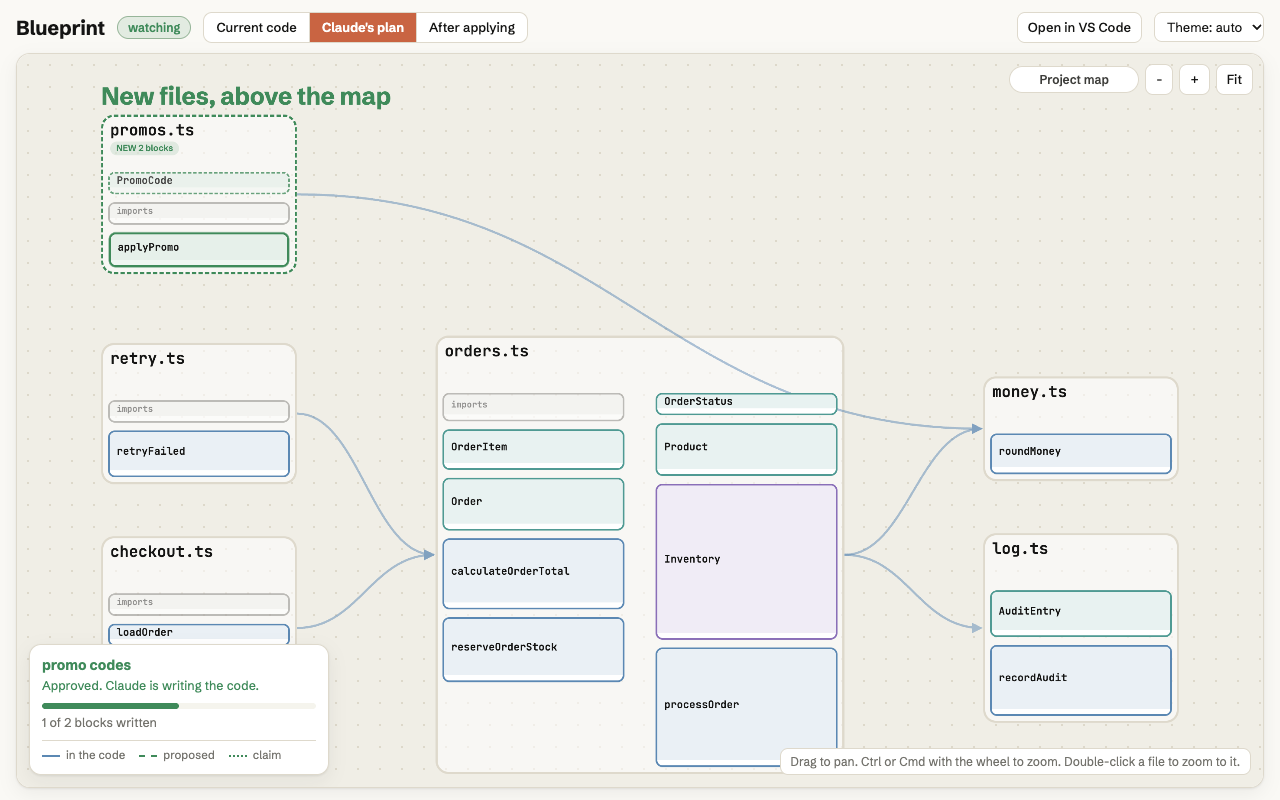
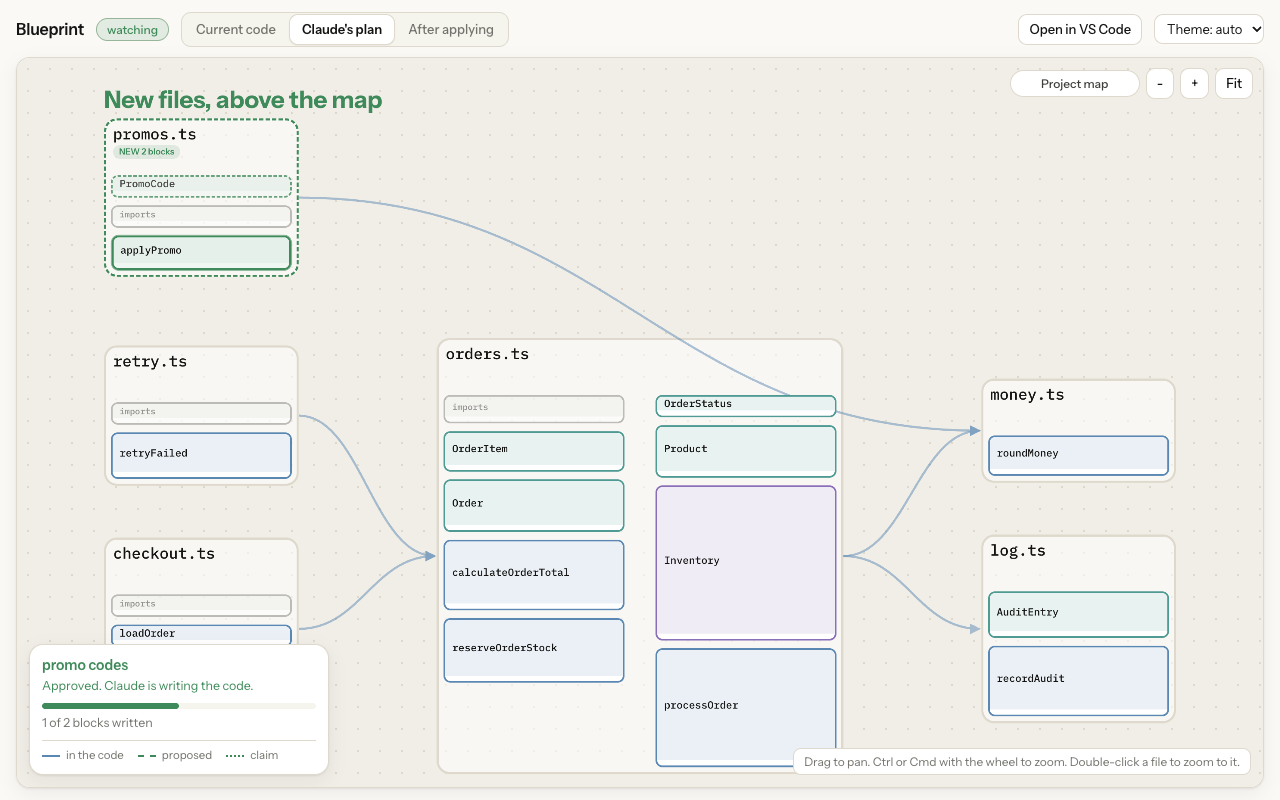
feat(ui): match claude's fonts and styling
instrument sans and ibm plex mono as the closest open faces, with
anthropic sans and mono first in the stack so the app's own win where
they exist. quiet 500 weights, neutral selected states, softer radii.
refreshed the readme screenshot.

diff --git a/packages/ui/src/style.css b/packages/ui/src/style.css
@@ -1,6 +1,6 @@
-@font-face { font-family: 'Schibsted Grotesk'; src: url('/fonts/schibsted-grotesk.woff2') format('woff2'); font-weight: 400 900; font-display: swap; }
-@font-face { font-family: 'JetBrains Mono'; src: url('/fonts/jetbrains-mono-400.woff2') format('woff2'); font-weight: 400; font-display: swap; }
-@font-face { font-family: 'JetBrains Mono'; src: url('/fonts/jetbrains-mono-600.woff2') format('woff2'); font-weight: 600 700; font-display: swap; }
+@font-face { font-family: 'Instrument Sans'; src: url('/fonts/instrument-sans.woff2') format('woff2'); font-weight: 400 700; font-display: swap; }
+@font-face { font-family: 'IBM Plex Mono'; src: url('/fonts/ibm-plex-mono-400.woff2') format('woff2'); font-weight: 400; font-display: swap; }
+@font-face { font-family: 'IBM Plex Mono'; src: url('/fonts/ibm-plex-mono-500.woff2') format('woff2'); font-weight: 500 700; font-display: swap; }
 
 :root {
   /* light, close to Claude's own: warm paper, near-black ink, clay accent */
@@ -11,8 +11,9 @@
   --add: #3f8a5a; --add-bg: rgba(63, 138, 90, .13); --del: #c8483c; --del-bg: rgba(200, 72, 60, .12); --mod: #b07d1f; --mod-bg: rgba(201, 150, 44, .17);
   --syn-kw: #9a4a8f; --syn-str: #b4592f; --syn-cm: #8a8880; --syn-num: #3d78a8;
   --shadow: 0 1px 2px rgba(20, 20, 19, .08), 0 6px 18px rgba(20, 20, 19, .06);
-  --font-ui: 'Schibsted Grotesk', system-ui, -apple-system, 'Segoe UI', sans-serif;
-  --font-mono: 'JetBrains Mono', ui-monospace, Menlo, Consolas, monospace;
+  /* Claude's own faces first, used wherever the page can see them, then the closest open ones */
+  --font-ui: 'Anthropic Sans', 'Styrene B', 'Instrument Sans', system-ui, -apple-system, 'Segoe UI', sans-serif;
+  --font-mono: 'Anthropic Mono', 'IBM Plex Mono', ui-monospace, SFMono-Regular, Menlo, Consolas, monospace;
 }
 @media (prefers-color-scheme: dark) {
   :root:not([data-theme="light"]) {
@@ -258,3 +259,27 @@ a.bp-btn { text-decoration: none; display: inline-block; color: inherit; }
 .bp-map .bp-bn { font-size: 24px; line-height: 1.15; }
 .bp-map .bp-blk { display: flex; flex-direction: column; }
 .bp-map .bp-blk.bp-k-imports .bp-bn { font-size: 20px; }
+
+/* styling to sit next to Claude: quiet weights, neutral selected states, soft borders */
+body { font-size: 14px; letter-spacing: -.003em; -webkit-font-smoothing: antialiased; }
+.bp-top h1 { font-size: 16px; font-weight: 600; letter-spacing: -.01em; }
+.bp-live { font-weight: 500; }
+.bp-btn, .bp-seg button { font-weight: 500; }
+.bp-seg { border-radius: 10px; padding: 2px; gap: 2px; background: var(--surface-2); border-color: var(--line); }
+.bp-seg button { border: 0; border-radius: 8px; padding: 5px 12px; color: var(--muted); }
+.bp-seg button:hover { color: var(--ink); }
+.bp-seg button.on { background: var(--surface); color: var(--ink); font-weight: 600; box-shadow: 0 0 0 1px var(--line), 0 1px 2px rgba(0, 0, 0, .12); }
+.bp-btn { border-radius: 9px; background: var(--surface); }
+.bp-btn:hover { background: var(--surface-2); border-color: var(--line); }
+.bp-select { border-radius: 9px; background: var(--surface); color: var(--ink); }
+.bp-panel { border-radius: 14px; }
+.bp-card, .bp-insp { border-radius: 14px; background: var(--surface); }
+.bp-lvl { font-weight: 500; }
+.bp-chip { border-radius: 9px; }
+.bp-chip b { font-weight: 500; }
+/* code names read as the inline code chips in Claude's chat: warm text on a faint chip */
+.bp-nm, .bp-bn { font-weight: 500; }
+.bp-bk { border-radius: 5px; }
+.bp-tag { font-weight: 500; border-radius: 5px; }
+.bp-fn { font-weight: 500; }
+.bp-cardhead b { font-weight: 600; }

diff --git a/THIRD_PARTY.md b/THIRD_PARTY.md
@@ -2,7 +2,9 @@
 
 The map page bundles two fonts, both under the SIL Open Font License 1.1:
 
-- Schibsted Grotesk, via `@fontsource-variable/schibsted-grotesk`
-- JetBrains Mono, via `@fontsource/jetbrains-mono`
+- Instrument Sans, via `@fontsource-variable/instrument-sans`
+- IBM Plex Mono, via `@fontsource/ibm-plex-mono`
+
+The page asks for Claude's own faces first (Anthropic Sans and Mono, which are proprietary and not shipped), so where those are available to the page it uses them and otherwise falls back to these.
 
 The file layout engine is `elkjs` (EPL-2.0), and the parser is the TypeScript compiler API (Apache-2.0).
